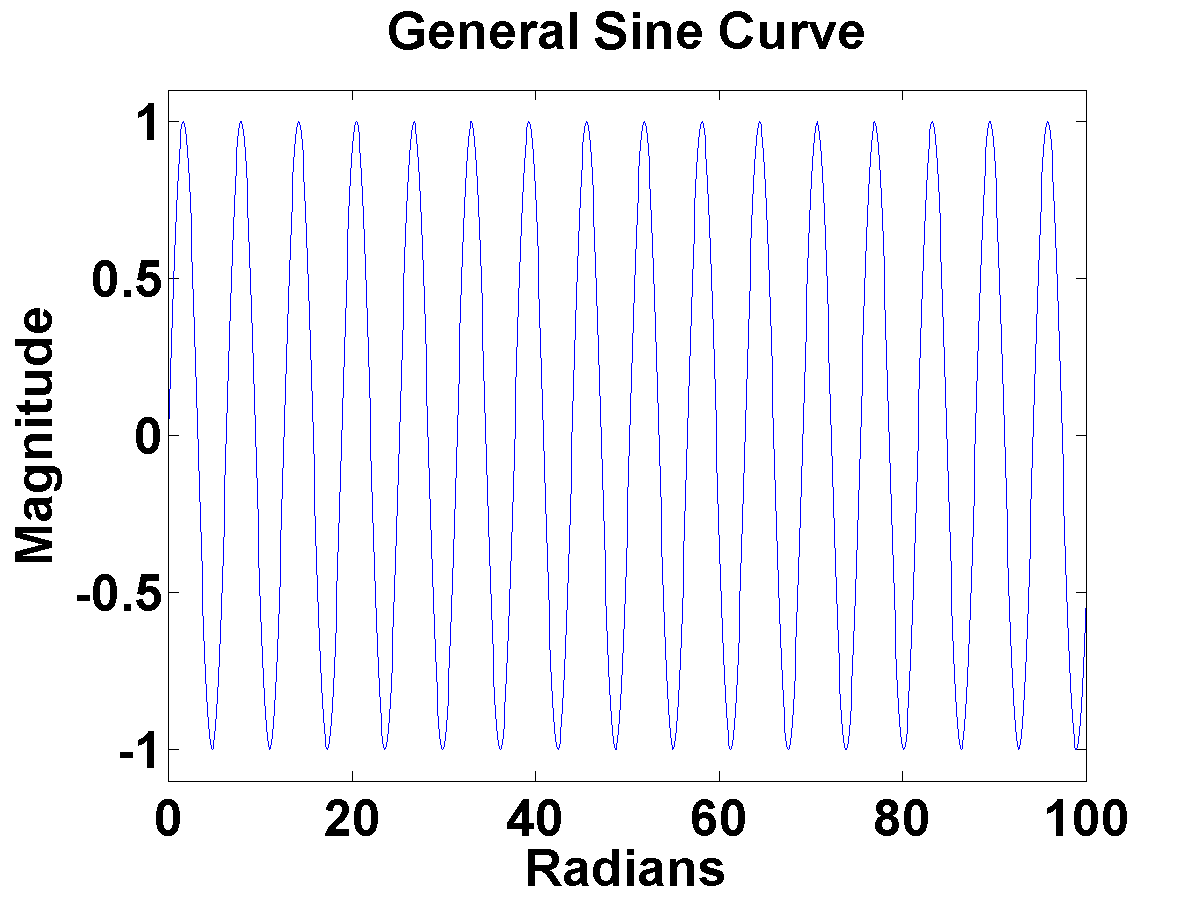
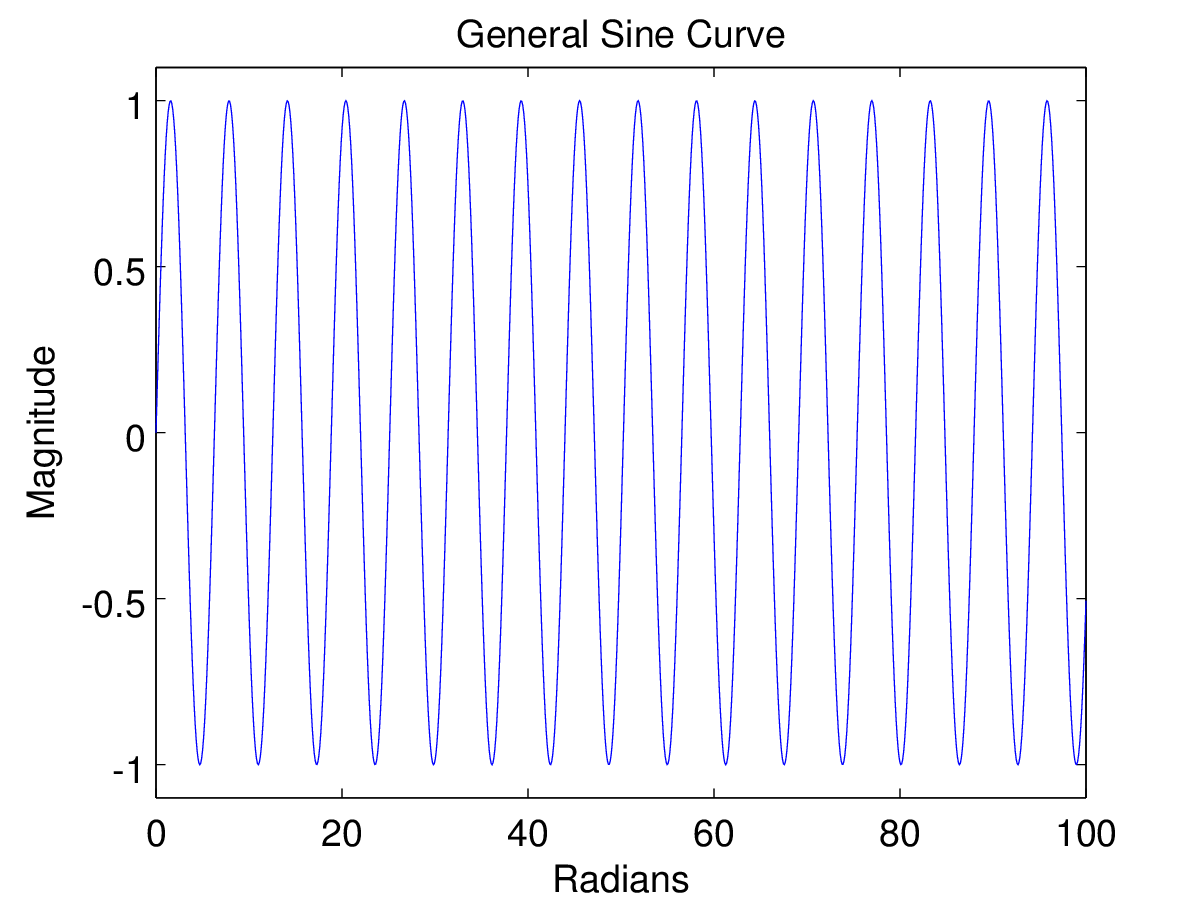
Minor updates

diff --git a/introduction.tex b/introduction.tex
@@ -6,4 +6,11 @@ APRS is a digital communication method commonly used by hams in order to report 
 
 This timeline helps to reinforce the fact that the technologies used for this system are old and far from cutting edge. Recently, in 2012, Sivan Toledo put together a Java based software package for demodulating these Bell 202, specifically APRS, packets. Using this package as the framework for testing other demodulation algorithms more insight was gained into software demodulation. Software demodulation provides a low cost alternative to hardware demodulators since users can run the software on hardware that they already possess. For example APRSDroid (an app in the Google’s Android Play Store) directly imports JavaAX25’s software demodulation [5]. 
 
+\begin{figure}
+  \centering
+  \includegraphics[width=0.75\linewidth]{images/GeneralSineCurve.png}
+%  \includegraphics{images/GeneralSineCurve.png}
+  \caption{Example Bell202 signal for the bit stream 010101}
+\end{figure}
+
 As mentioned thus far, software provides a viable low cost alternative to dedicated hardware, but still has some weaknesses that need to be addressed to improve reliability to match hardware. Section 2 goes into background information. Section 3 gives a summary and detailed information on Toledo's JavaAX25 package. Section 4 goes into our implementation specifics, discussing our different algorithms and interesting edge cases that we encountered. Section 5 describes the methods for testing the implementations. Section 6 discusses results including decoded packets and some rough memory usage analysis. Section 7 comments on areas for future work, and finally section 8 concludes this research project.
